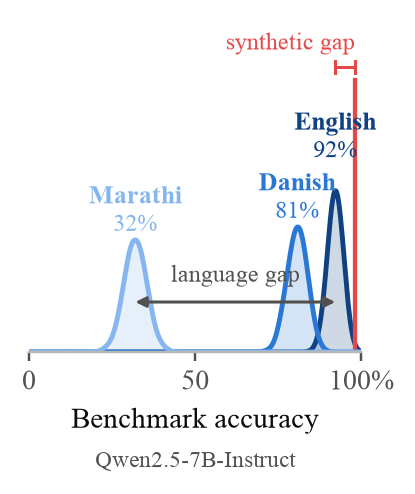
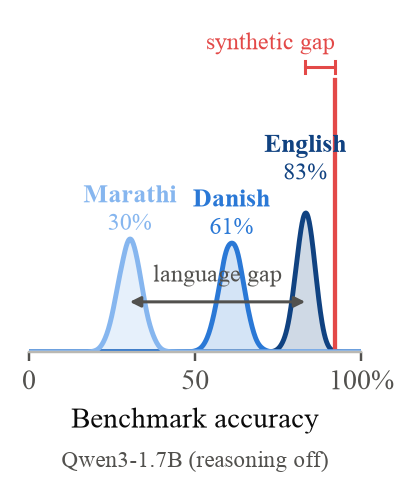
replace more with newer

diff --git a/images/make_headline_curve.py b/images/make_headline_curve.py
@@ -24,7 +24,7 @@ import pandas as pd
 matplotlib.use("Agg")
 import matplotlib.pyplot as plt  # noqa: E402
 
-MODEL = "Qwen2.5-7B-Instruct"
+MODEL = "Qwen3-1.7B (reasoning off)"
 LANGS = {"eng": ("English", "#104281"), "dan": ("Danish", "#2a78d6"), "mar": ("Marathi", "#86b6ef")}
 # languages excluded from the paper's analysis set: metric variants, the pre-correction
 # Icelandic subset, and Urdu (evaluated on only 26 of the 48 models)
@@ -84,6 +84,8 @@ def main(parquet: Path, out: Path) -> None:
         if lang == "eng":
             ax.plot([static, static], [0, 0.272], color=RED, lw=1.4)
         lift = 8 if lang == "eng" else 0
+        # nudge the Danish label only when it would crowd the English peak
+        shift = -13 if lang == "dan" and means["eng"] - drawn.mean() < 15 else 0
         ax.annotate(
             label,
             (drawn.mean(), y.max()),
@@ -91,7 +93,7 @@ def main(parquet: Path, out: Path) -> None:
             fontsize=8.5,
             fontweight="bold",
             ha="center",
-            xytext=(0, 12 + lift),
+            xytext=(shift, 12 + lift),
             textcoords="offset points",
         )
         ax.annotate(
@@ -100,7 +102,7 @@ def main(parquet: Path, out: Path) -> None:
             color=colour,
             fontsize=8,
             ha="center",
-            xytext=(0, 3 + lift),
+            xytext=(shift, 3 + lift),
             textcoords="offset points",
         )
 
